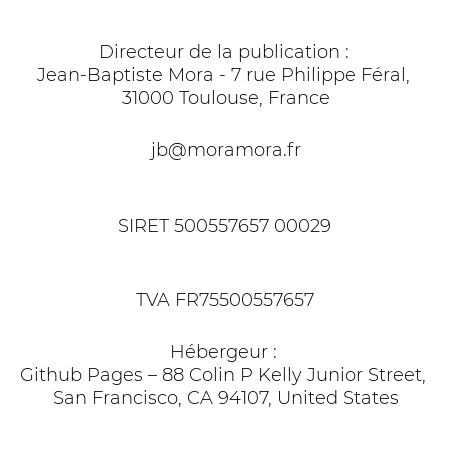
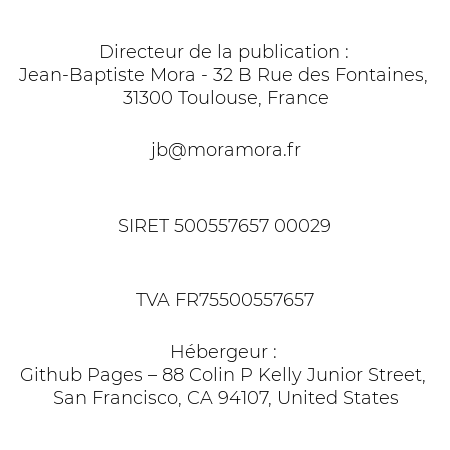
Update adresse mentions légales + lien CII

Changed region(s): [[0.0311, 0.1244, 0.9644, 0.2489]]

diff --git a/index.html b/index.html
@@ -145,7 +145,7 @@
                 Je gère également des <b>sites Wordpress</b> disposant de fonctionnalités avancées telles que réservation, paiement, gestion de personnes, annuaire; avec les plugins Elementor, Gravity Forms.
                 <br>
                 <br>
-                Je suis <strong>agréé CII</strong> par la Direction générale des Entreprises du ministère de l'économie et des finances, permettant à mes donneurs d'ordre de bénéficier d'un <strong>crédit d'impôt de 20% des dépenses engagées sur la conception de prototypes de nouveaux produits</strong>. Retrouvez tous les détails <a href="https://bpifrance-creation.fr/encyclopedie/aides-a-creation-a-reprise-dentreprise/aides-a-linnovation/cii-credit-dimpot" target="_blank" class="is-link">ici</a> et <a href="https://www.entreprises.gouv.fr/politique-et-enjeux/credit-impot-innovation" target="_blank" class="is-link">ici</a>.
+                Je suis <a href="https://data.enseignementsup-recherche.gouv.fr/pages/circii/?refine.annees=2018&sort=-fin&refine.pays=France&refine.localisation=Nouvelle-Aquitaine%3ELandes%3EMagescq" target="_blank" class="is-link">agréé CII</a> par la Direction générale des Entreprises du ministère de l'économie et des finances, permettant à mes donneurs d'ordre de bénéficier d'un <strong>crédit d'impôt de 20% des dépenses engagées sur la conception de prototypes de nouveaux produits</strong>. Retrouvez tous les détails <a href="https://bpifrance-creation.fr/encyclopedie/aides-a-creation-a-reprise-dentreprise/aides-a-linnovation/cii-credit-dimpot" target="_blank" class="is-link">ici</a> et <a href="https://www.entreprises.gouv.fr/politique-et-enjeux/credit-impot-innovation" target="_blank" class="is-link">ici</a>.
                 <br>
                 <br>
                 My native tongue is french but <strong>I'm fluent in english</strong>. All my work is coded / commented in english, and present a multilingual interface capable of displaying several languages, with the associated backend translating system.
